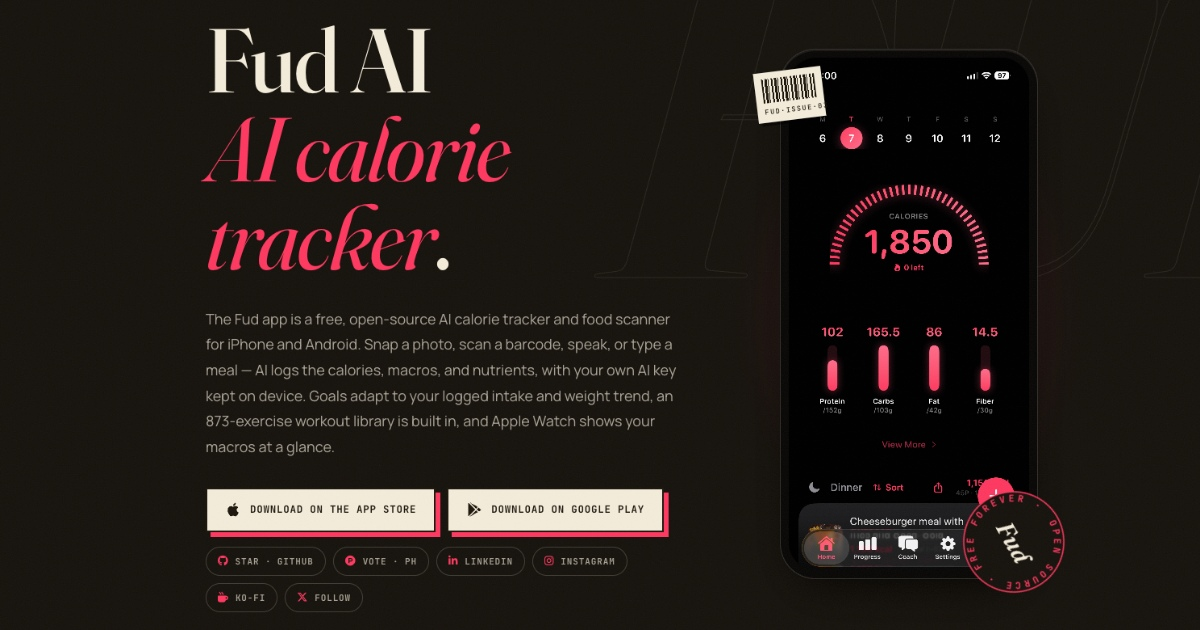
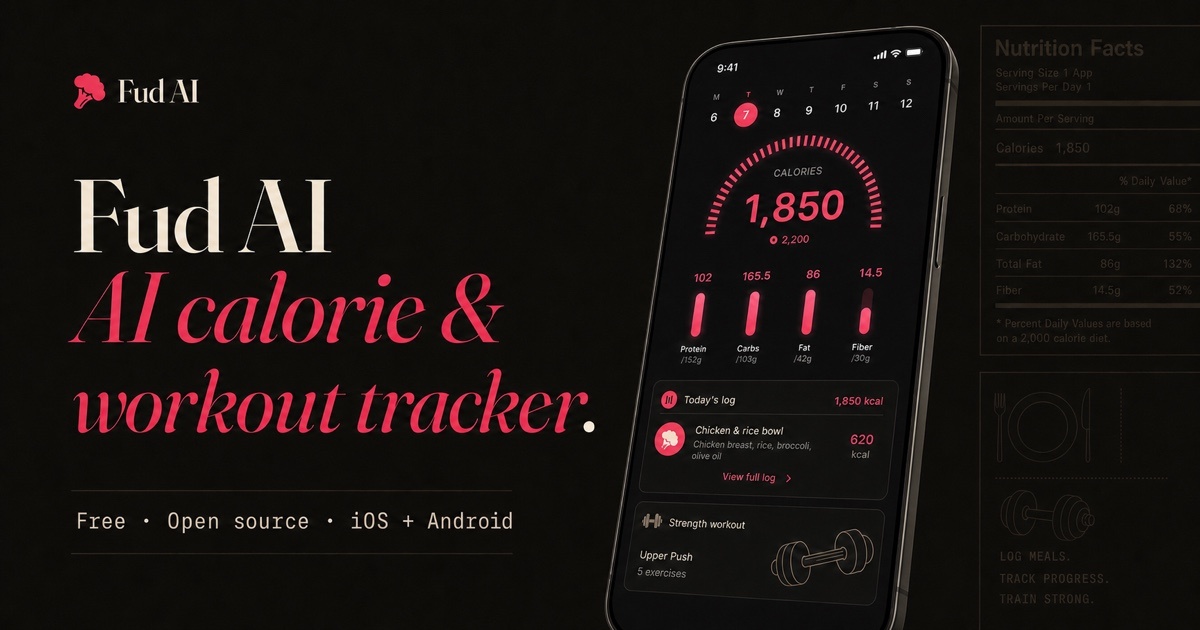
Refresh website Open Graph artwork

diff --git a/web/terms.html b/web/terms.html
@@ -17,12 +17,12 @@
 <meta property="og:url" content="https://www.fud-ai.app/terms.html">
 <meta property="og:title" content="Terms of Service — Fud AI Calorie Tracker for iOS &amp; Android">
 <meta property="og:description" content="Terms for Fud AI, including AI estimates, optional water tracking, health permissions, exports, shared meal links, BYOK providers, and open-source licensing.">
-<meta property="og:image" content="https://www.fud-ai.app/assets/opengraph.jpg?v=20260705">
-<meta property="og:image:secure_url" content="https://www.fud-ai.app/assets/opengraph.jpg?v=20260705">
+<meta property="og:image" content="https://www.fud-ai.app/assets/opengraph.jpg?v=20260722">
+<meta property="og:image:secure_url" content="https://www.fud-ai.app/assets/opengraph.jpg?v=20260722">
 <meta property="og:image:type" content="image/jpeg">
 <meta property="og:image:width" content="1200">
 <meta property="og:image:height" content="630">
-<meta property="og:image:alt" content="Fud AI — AI calorie tracker for iOS and Android. Snap, speak, or type your meal.">
+<meta property="og:image:alt" content="Fud AI — free, open-source AI calorie and workout tracker for iOS and Android.">
 <!-- Twitter / X -->
 <meta name="twitter:card" content="summary_large_image">
 <meta name="twitter:site" content="@apoorvdarshan">
@@ -30,8 +30,8 @@
 <meta name="twitter:url" content="https://www.fud-ai.app/terms.html">
 <meta name="twitter:title" content="Terms of Service — Fud AI Calorie Tracker for iOS &amp; Android">
 <meta name="twitter:description" content="Terms for Fud AI, including AI estimates, optional water tracking, health permissions, exports, shared meal links, BYOK providers, and open-source licensing.">
-<meta name="twitter:image" content="https://www.fud-ai.app/assets/opengraph.jpg?v=20260705">
-<meta name="twitter:image:alt" content="Fud AI — AI calorie tracker for iOS and Android. Snap, speak, or type your meal.">
+<meta name="twitter:image" content="https://www.fud-ai.app/assets/opengraph.jpg?v=20260722">
+<meta name="twitter:image:alt" content="Fud AI — free, open-source AI calorie and workout tracker for iOS and Android.">
 <link rel="icon" href="assets/calorie logo transparent.png">
 <link rel="preconnect" href="https://fonts.googleapis.com">
 <link rel="preconnect" href="https://fonts.gstatic.com" crossorigin>

diff --git a/web/index.html b/web/index.html
@@ -19,12 +19,12 @@
 <meta property="og:url" content="https://www.fud-ai.app/">
 <meta property="og:title" content="Fud AI App — AI Calorie Tracker &amp; Food Scanner">
 <meta property="og:description" content="Log meals by photo, voice, barcode or text; review nutrition; track strength workouts, macros and body data; and optionally sync with Apple Health or Health Connect.">
-<meta property="og:image" content="https://www.fud-ai.app/assets/opengraph.jpg?v=20260707">
-<meta property="og:image:secure_url" content="https://www.fud-ai.app/assets/opengraph.jpg?v=20260707">
+<meta property="og:image" content="https://www.fud-ai.app/assets/opengraph.jpg?v=20260722">
+<meta property="og:image:secure_url" content="https://www.fud-ai.app/assets/opengraph.jpg?v=20260722">
 <meta property="og:image:type" content="image/jpeg">
 <meta property="og:image:width" content="1200">
 <meta property="og:image:height" content="630">
-<meta property="og:image:alt" content="Fud AI — AI calorie tracker for iOS and Android. Snap, speak, or type your meal.">
+<meta property="og:image:alt" content="Fud AI — free, open-source AI calorie and workout tracker for iOS and Android.">
 <!-- Twitter / X -->
 <meta name="twitter:card" content="summary_large_image">
 <meta name="twitter:site" content="@apoorvdarshan">
@@ -32,8 +32,8 @@
 <meta name="twitter:url" content="https://www.fud-ai.app/">
 <meta name="twitter:title" content="Fud AI App — AI Calorie Tracker &amp; Food Scanner">
 <meta name="twitter:description" content="Log meals by photo, voice, barcode or text; review nutrition; track strength workouts, macros and body data; and optionally sync with Apple Health or Health Connect.">
-<meta name="twitter:image" content="https://www.fud-ai.app/assets/opengraph.jpg?v=20260707">
-<meta name="twitter:image:alt" content="Fud AI — AI calorie tracker for iOS and Android. Snap, speak, or type your meal.">
+<meta name="twitter:image" content="https://www.fud-ai.app/assets/opengraph.jpg?v=20260722">
+<meta name="twitter:image:alt" content="Fud AI — free, open-source AI calorie and workout tracker for iOS and Android.">
 <link rel="icon" href="assets/calorie logo transparent.png">
 <link rel="preload" as="image" href="assets/screenshots/home.png" fetchpriority="high">
 <link rel="preconnect" href="https://fonts.googleapis.com">

diff --git a/web/privacy.html b/web/privacy.html
@@ -17,12 +17,12 @@
 <meta property="og:url" content="https://www.fud-ai.app/privacy.html">
 <meta property="og:title" content="Privacy Policy — Fud AI Calorie Tracker for iOS &amp; Android">
 <meta property="og:description" content="How Fud AI handles AI requests, voice, workout and nutrition logs, health permissions, water tracking, exports, API keys, and local app data.">
-<meta property="og:image" content="https://www.fud-ai.app/assets/opengraph.jpg?v=20260705">
-<meta property="og:image:secure_url" content="https://www.fud-ai.app/assets/opengraph.jpg?v=20260705">
+<meta property="og:image" content="https://www.fud-ai.app/assets/opengraph.jpg?v=20260722">
+<meta property="og:image:secure_url" content="https://www.fud-ai.app/assets/opengraph.jpg?v=20260722">
 <meta property="og:image:type" content="image/jpeg">
 <meta property="og:image:width" content="1200">
 <meta property="og:image:height" content="630">
-<meta property="og:image:alt" content="Fud AI — AI calorie tracker for iOS and Android. Snap, speak, or type your meal.">
+<meta property="og:image:alt" content="Fud AI — free, open-source AI calorie and workout tracker for iOS and Android.">
 <!-- Twitter / X -->
 <meta name="twitter:card" content="summary_large_image">
 <meta name="twitter:site" content="@apoorvdarshan">
@@ -30,8 +30,8 @@
 <meta name="twitter:url" content="https://www.fud-ai.app/privacy.html">
 <meta name="twitter:title" content="Privacy Policy — Fud AI Calorie Tracker for iOS &amp; Android">
 <meta name="twitter:description" content="How Fud AI handles AI requests, voice, workout and nutrition logs, health permissions, water tracking, exports, API keys, and local app data.">
-<meta name="twitter:image" content="https://www.fud-ai.app/assets/opengraph.jpg?v=20260705">
-<meta name="twitter:image:alt" content="Fud AI — AI calorie tracker for iOS and Android. Snap, speak, or type your meal.">
+<meta name="twitter:image" content="https://www.fud-ai.app/assets/opengraph.jpg?v=20260722">
+<meta name="twitter:image:alt" content="Fud AI — free, open-source AI calorie and workout tracker for iOS and Android.">
 <link rel="icon" href="assets/calorie logo transparent.png">
 <link rel="preconnect" href="https://fonts.googleapis.com">
 <link rel="preconnect" href="https://fonts.gstatic.com" crossorigin>

diff --git a/web/add-meal.html b/web/add-meal.html
@@ -11,7 +11,7 @@
   <!-- Social preview (WhatsApp/iMessage show this card for the link) -->
   <meta property="og:title" content="Someone shared a meal with you" />
   <meta property="og:description" content="Open in Fud AI to add it to your log in one tap." />
-  <meta property="og:image" content="https://www.fud-ai.app/assets/opengraph.jpg?v=20260707" />
+  <meta property="og:image" content="https://www.fud-ai.app/assets/opengraph.jpg?v=20260722" />
   <meta property="og:type" content="website" />
   <meta name="twitter:card" content="summary_large_image" />
 
